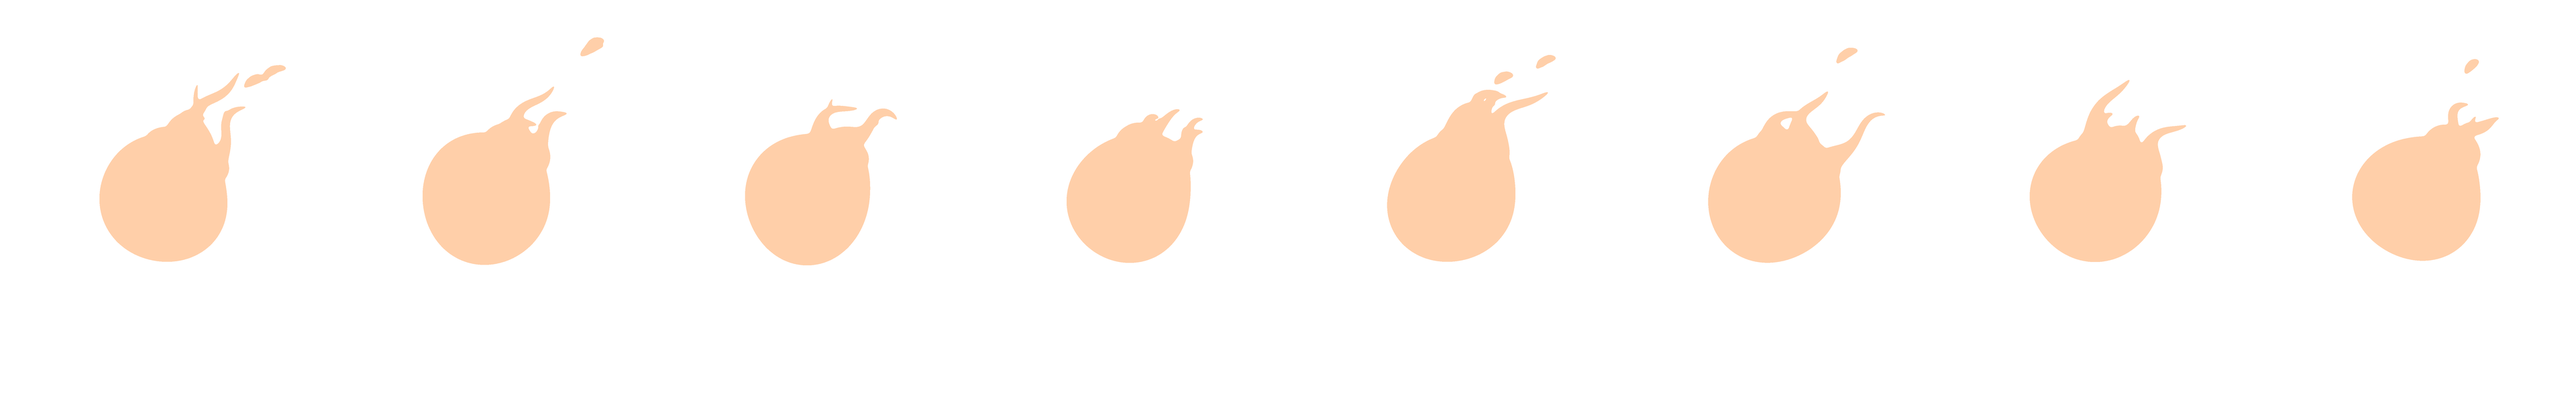
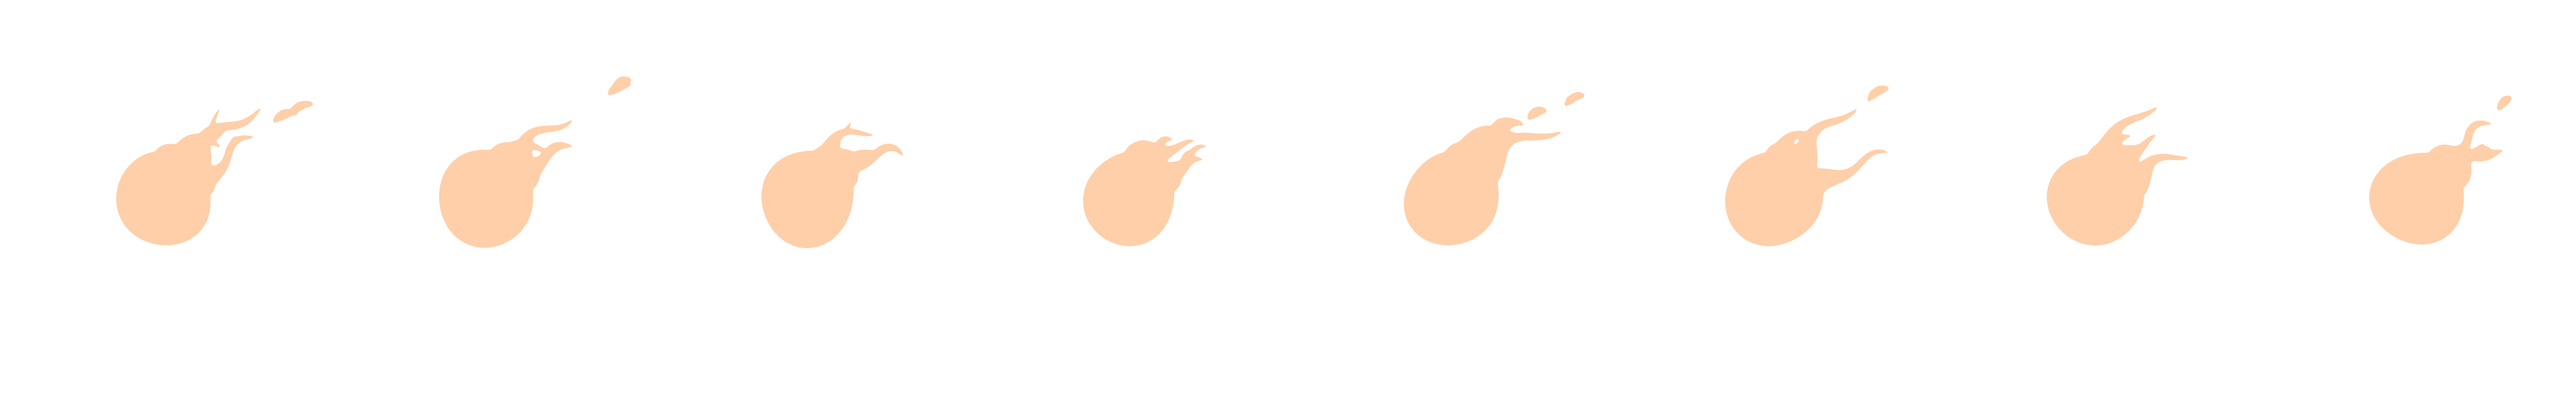
シンプル：ゴーゴーの炎の玉を小さく・炎をななめに寝かせる
- 玉を判定枠の小さい丸（半径約50）より大きく、大きい丸（約77）より小さく：画面で約63（0.9倍で描くので画像では70。前は95＝画面で約85）
- 炎の立ち上がりを、上向き（−88°〜−60°）からななめ右上（−62°〜−34°）へ寝かせた
- かけらの出る場所も右へ寄せた

Claude-Session: https://claude.ai/code/session_01DAU9tpBiF8CGAJXqk8DqYG

diff --git a/tools/skin-gen/gogo_fire.py b/tools/skin-gen/gogo_fire.py
@@ -59,11 +59,13 @@ def frame(f):
     t = f / N * 2 * math.pi
     dx, dy = X - CX, Y - CY
     theta = np.arctan2(dy, dx)
-    ball_r = 95 + 2.5 * np.sin(2 * theta - t) + 1.5 * np.sin(3 * theta + 2 * t) + 1.5 * math.sin(t * 2)   # ほぼ丸。少しだけゆれる
+    # 11/5：玉は判定枠の小さい丸(半径約50)より大きく、大きい丸(約77)より小さく → 画面で約63 ＝ 0.9倍で描くので 70
+    BALL = 70
+    ball_r = BALL + 2.0 * np.sin(2 * theta - t) + 1.2 * np.sin(3 * theta + 2 * t) + 1.2 * math.sin(t * 2)   # ほぼ丸。少しだけゆれる
     # 右上の肩を少し盛り上げる（A-Style も、玉の右上がこぶのようにふくらんで、そこから炎が分かれている）
     hump_c = math.radians(-48)
     hd = np.angle(np.exp(1j * (theta - hump_c)))
-    ball_r = ball_r + 12 * np.exp(-(hd / 0.5) ** 2)
+    ball_r = ball_r + 9 * np.exp(-(hd / 0.5) ** 2)
     m = dx * dx + dy * dy <= ball_r ** 2
     rng = np.random.default_rng(100 + f)          # コマごとにちがう形（決まった乱数なので毎回同じ画像になる）
 
@@ -87,17 +89,17 @@ def frame(f):
 
     # 炎 3〜4本：玉の上〜右上（−95°〜−30°）から上向きに立って、2〜3回くねりながら右へなびく
     count = int(rng.integers(3, 5))
-    bases = np.sort(rng.uniform(-95, -30, count))
+    bases = np.sort(rng.uniform(-85, -20, count))
     for k, b in enumerate(bases):
         a = math.radians(b)
-        rr = 95 + 12 * math.exp(-((a - hump_c) / 0.5) ** 2) - 16
+        rr = BALL + 9 * math.exp(-((a - hump_c) / 0.5) ** 2) - 12
         bx, by = CX + math.cos(a) * rr, CY + math.sin(a) * rr
         length = rng.uniform(55, 130) * (1.0 + 0.25 * (b > -60))          # 右上側の炎ほど長め
-        heading = math.radians(rng.uniform(-88, -60))                   # 上〜ななめ右上に立つ
-        turn = math.radians(rng.uniform(45, 95))                        # 先へ行くほど右へ
+        heading = math.radians(rng.uniform(-62, -34))                   # ななめ右上へ(11/5「もう少し寝かせて」)
+        turn = math.radians(rng.uniform(30, 70))                        # 先へ行くほど右へ
         wiggle = math.radians(rng.uniform(18, 32)) * (1 if rng.random() < 0.5 else -1)
         waves = rng.uniform(1.0, 1.6)
-        w0 = rng.uniform(15, 22)
+        w0 = rng.uniform(13, 19)
         pts = curve(bx, by, heading, length, turn, wiggle, 80, waves)
         n = len(pts)
         ws = []
@@ -115,7 +117,7 @@ def frame(f):
 
     # 葉っぱ形のかけら：半分くらいのコマで 1〜2個、右上へ
     for j in range(int(rng.integers(0, 3)) if rng.random() < 0.6 else 0):
-        x0 = CX + rng.uniform(60, 150); y0 = CY - rng.uniform(150, 230)
+        x0 = CX + rng.uniform(110, 190); y0 = CY - rng.uniform(100, 170)
         pts = curve(x0, y0, math.radians(rng.uniform(-70, -30)), rng.uniform(30, 48), math.radians(rng.uniform(40, 80)), 0, 30)
         n = len(pts)
         stroke(pts, [rng.uniform(5, 7.5) * math.sin(math.pi * i / (n - 1)) ** 0.8 for i in range(n)])   # 両はしがとがる

diff --git a/AGENTS.md b/AGENTS.md
@@ -507,7 +507,8 @@ Measured by overlaying images on frames of the 九段 video (03-04-03 at 20 s, 2
   - A-Style has eyes and a mouth; **Simple has no face** (shape only)
 - Simple's go-go fire (11/5; たけらい asked to match A-Style's tongue shapes): A-Style's GoGoSoul tongues are thin, wave in an S 2–3 times with small lobes,
   have **sharp tips**, rise up-right from a slight hump on the ball's upper right, 2–4 per frame with big per-frame changes (flicker), and leaf-shaped
-  fragments (pointed at both ends) sometimes break off. Simple follows that structure with its own drawing: nearly round ball (r 95, slight wobble) + small hump,
+  fragments (pointed at both ends) sometimes break off. Simple follows that structure with its own drawing: nearly round ball (r 70 in the image = ~63 px on screen at 0.9×, i.e. between the judge frame's
+  small circle r≈50 and big circle r≈77; slight wobble) + small hump, tongues leaning diagonally up-right (heading −62°…−34°),
   3–4 tongues per frame from a seeded RNG (seed 100+frame), occasional side branch, 0–2 leaf fragments, only a 2.2 px blur to smooth joints (tips stay sharp),
   flat light orange (255,146,60, α112). `frame()` in `tools/skin-gen/gogo_fire.py`
 - Go-go fire (`Lane/GoGoSoul.png`, 480×600 per frame × 8): fireball center (243,297) placed on the judge circle at **0.9×**, additive blend.
